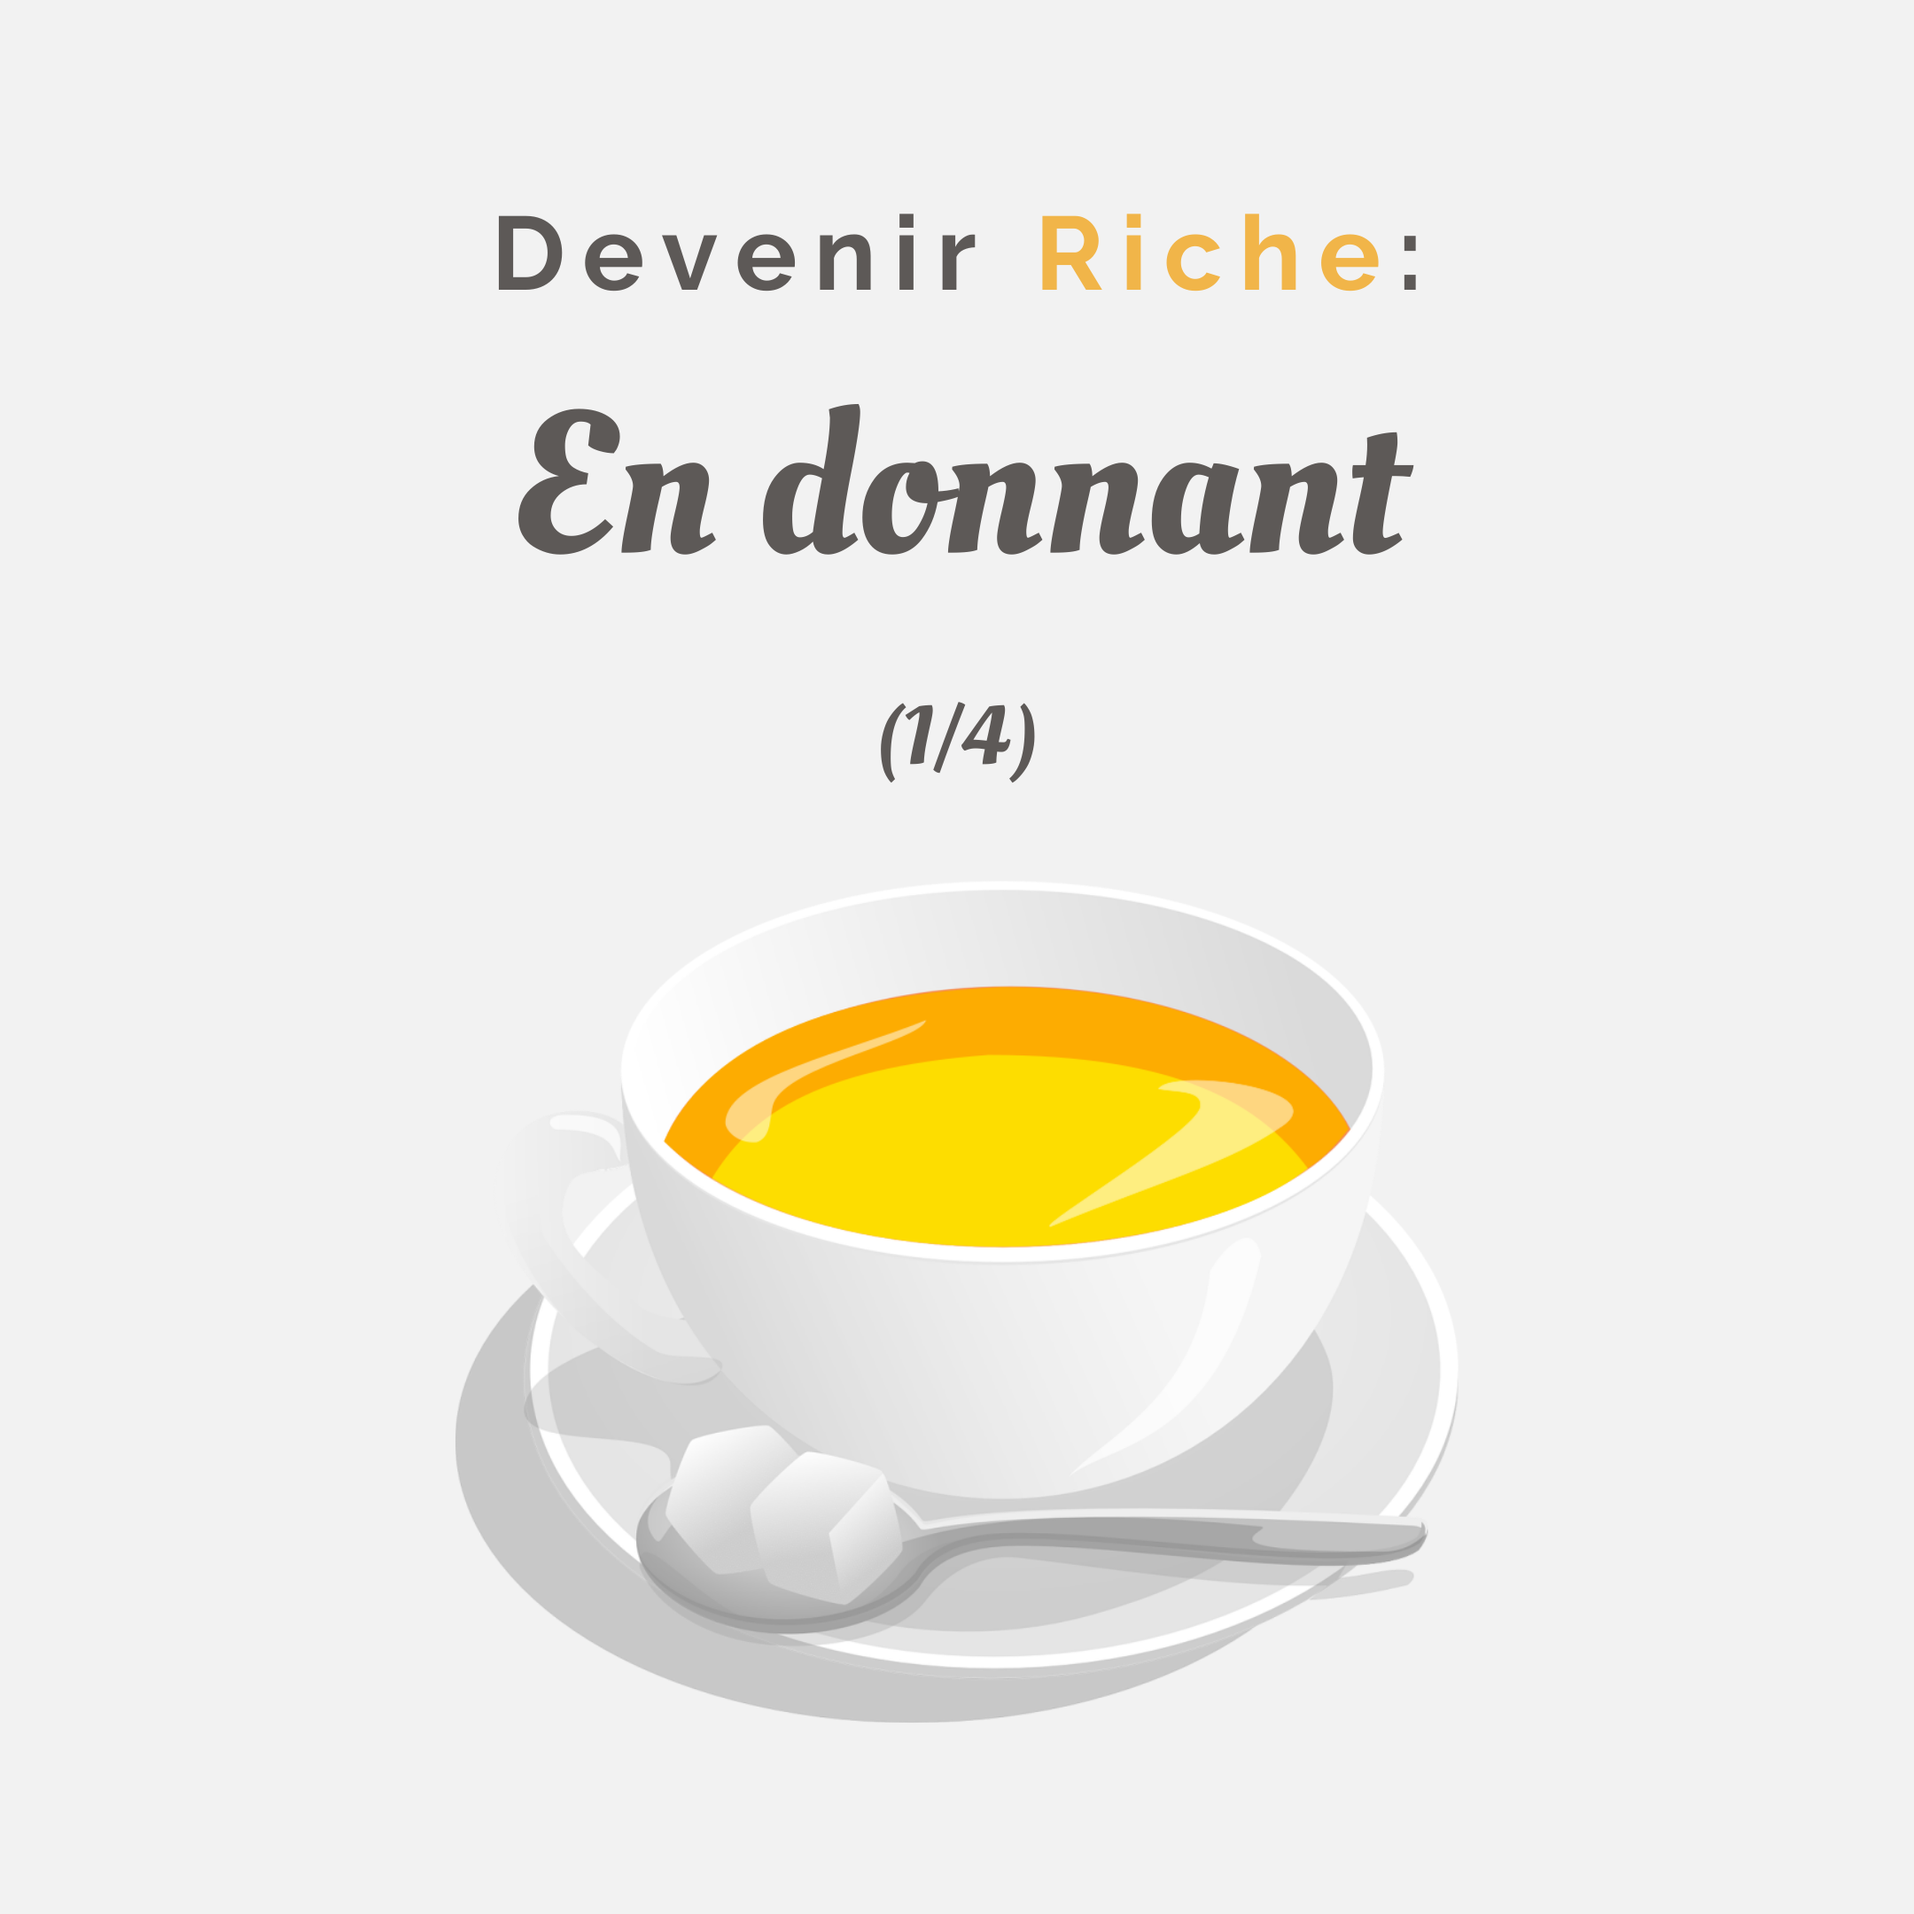
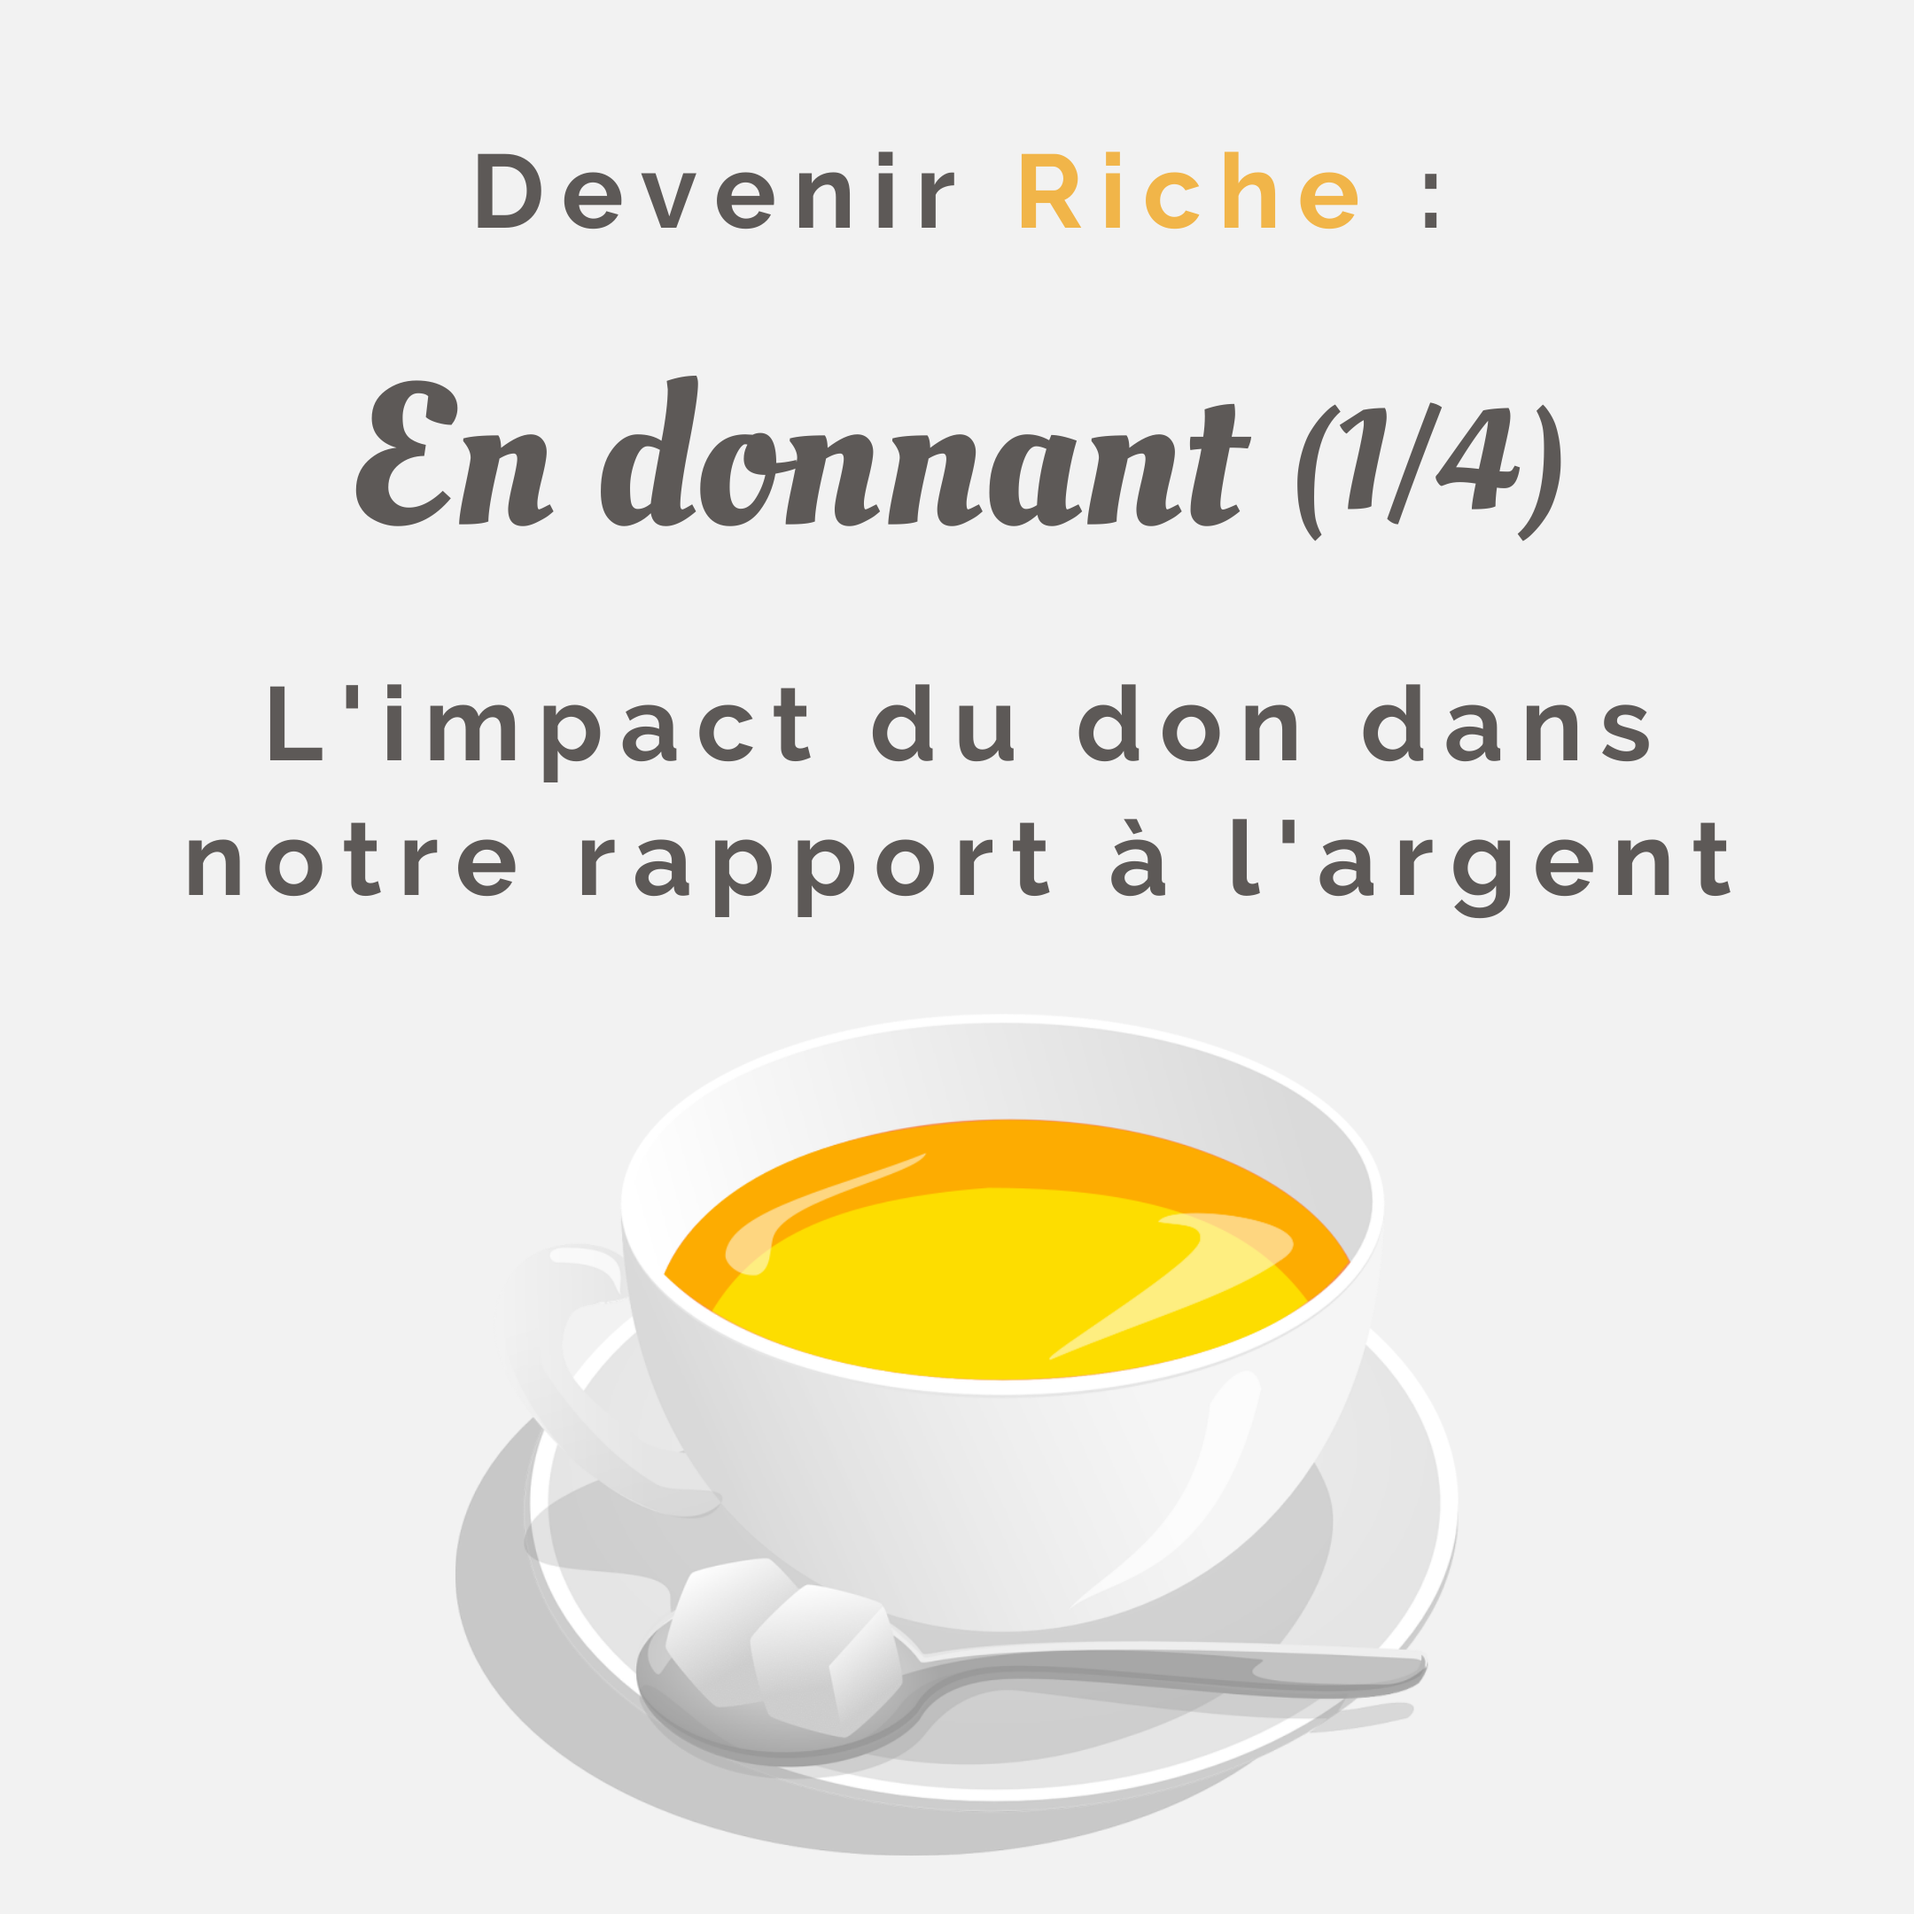
change title

diff --git a/_posts/2021-07-07-don_article.md b/_posts/2021-07-07-don_article.md
@@ -1,6 +1,6 @@
 ---
 layout: post
-title:  "Le don dans notre rapport à l'argent"
+title:  "L'impact du don dans notre rapport à l'argent"
 categories: [ article, don, argent, budget, reflexion, riche ]
 image: assets/images/posts/1-2-img.png
 source: Image par <a href="https://pixabay.com/fr/users/openclipart-vectors-30363/?utm_source=link-attribution&amp;utm_medium=referral&amp;utm_campaign=image&amp;utm_content=153336">OpenClipart-Vectors</a> de <a href="https://pixabay.com/fr/?utm_source=link-attribution&amp;utm_medium=referral&amp;utm_campaign=image&amp;utm_content=153336">Pixabay</a>
